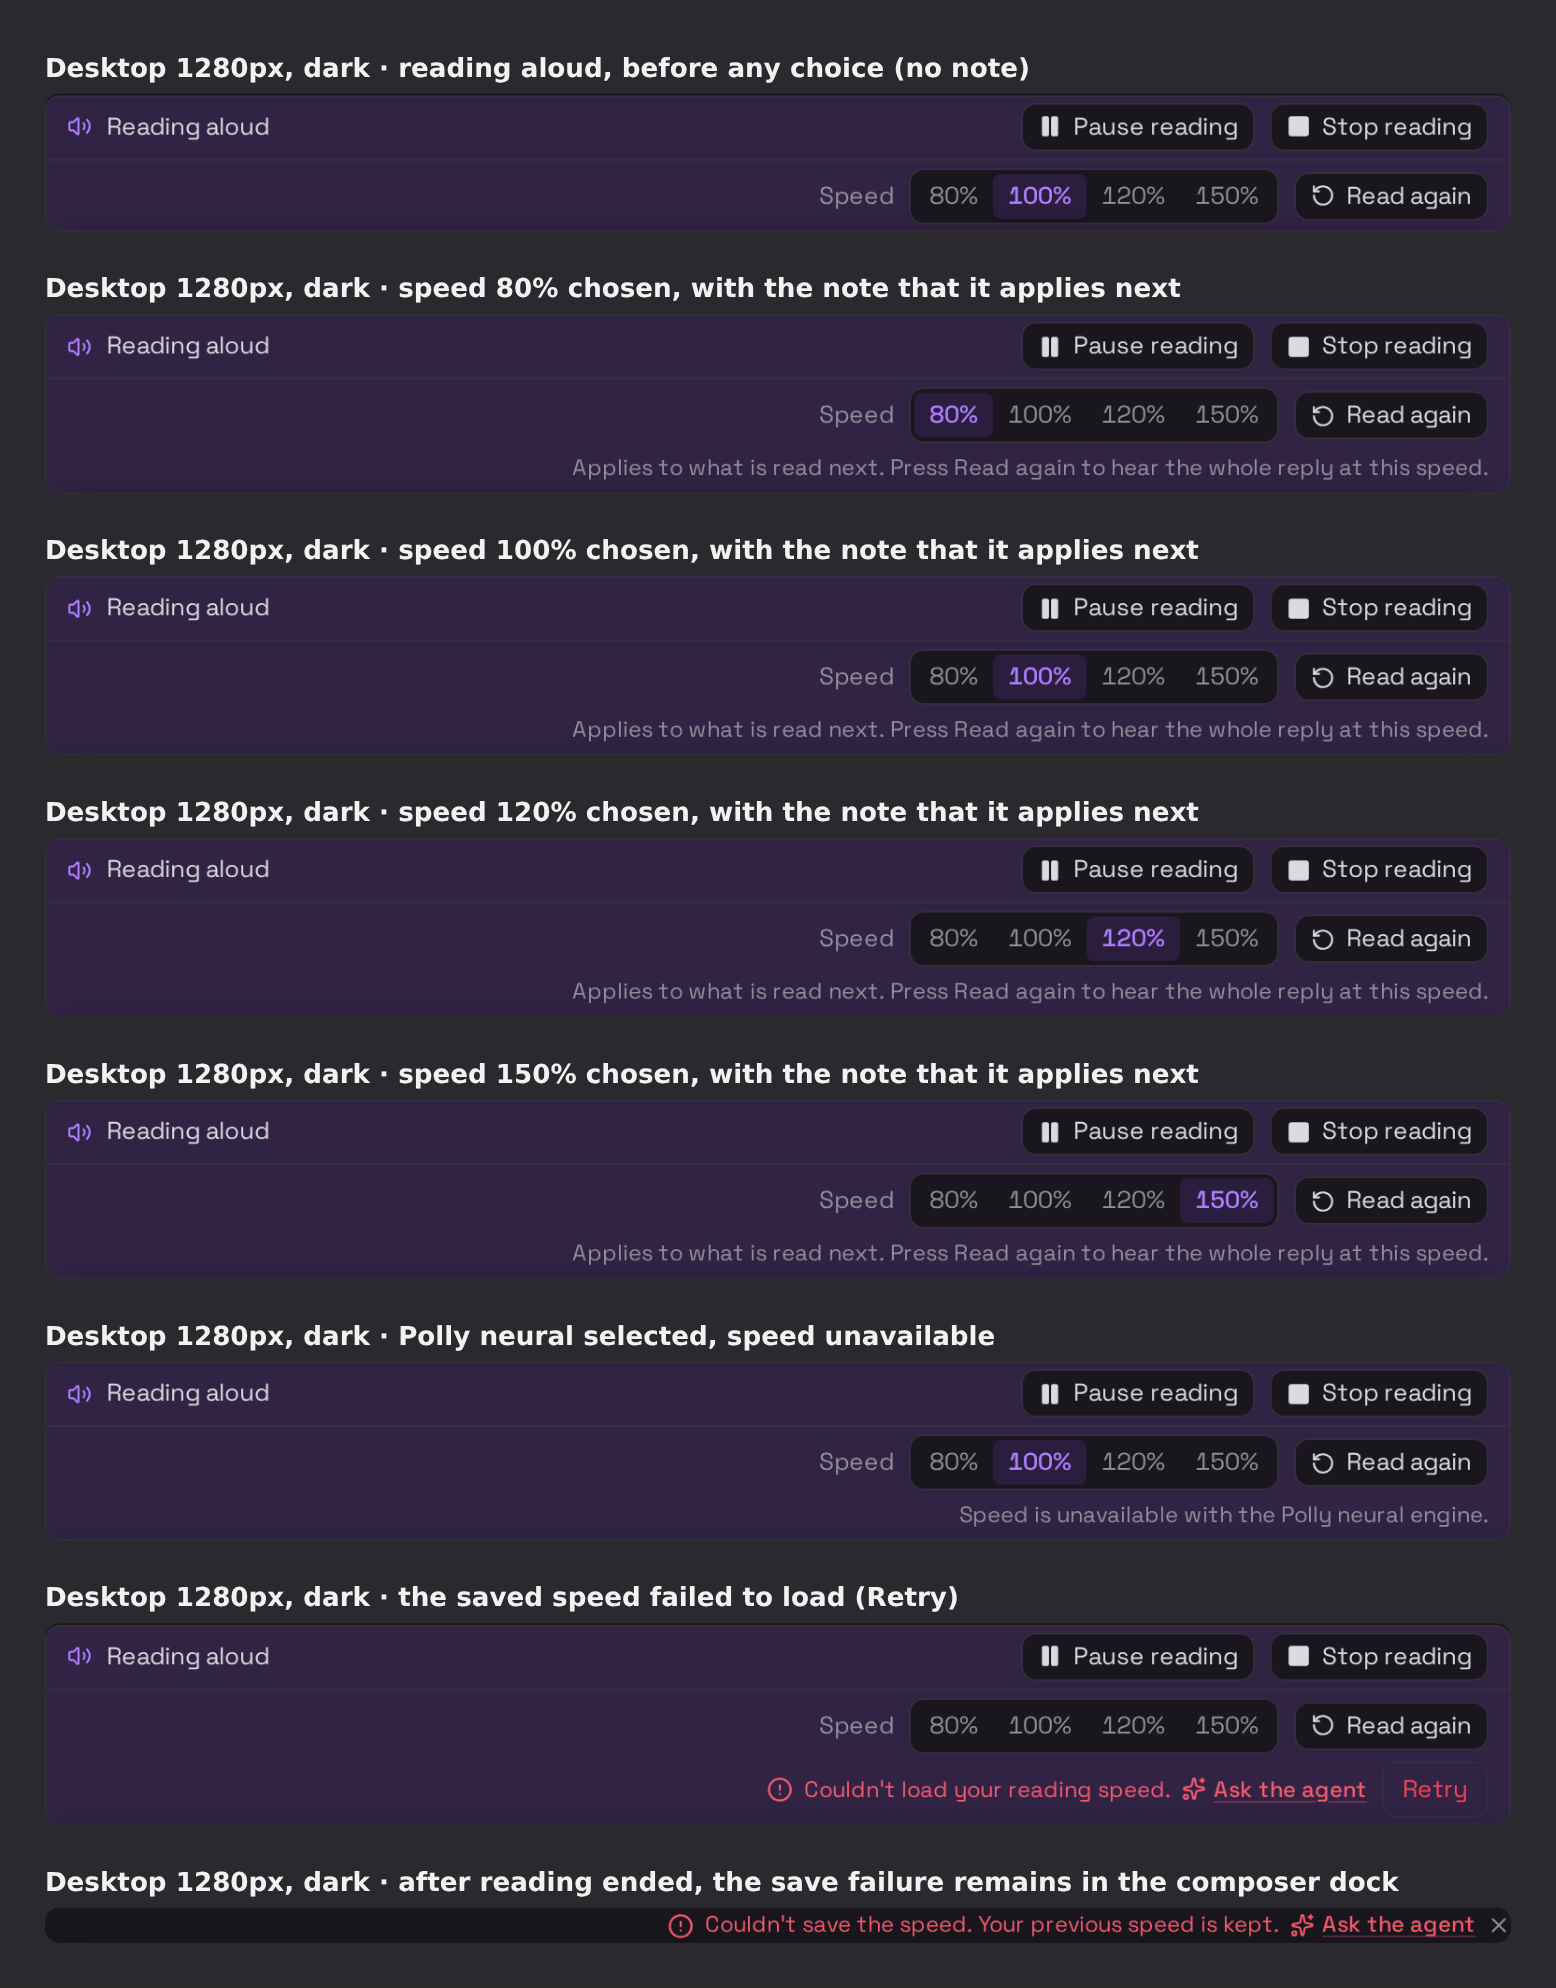
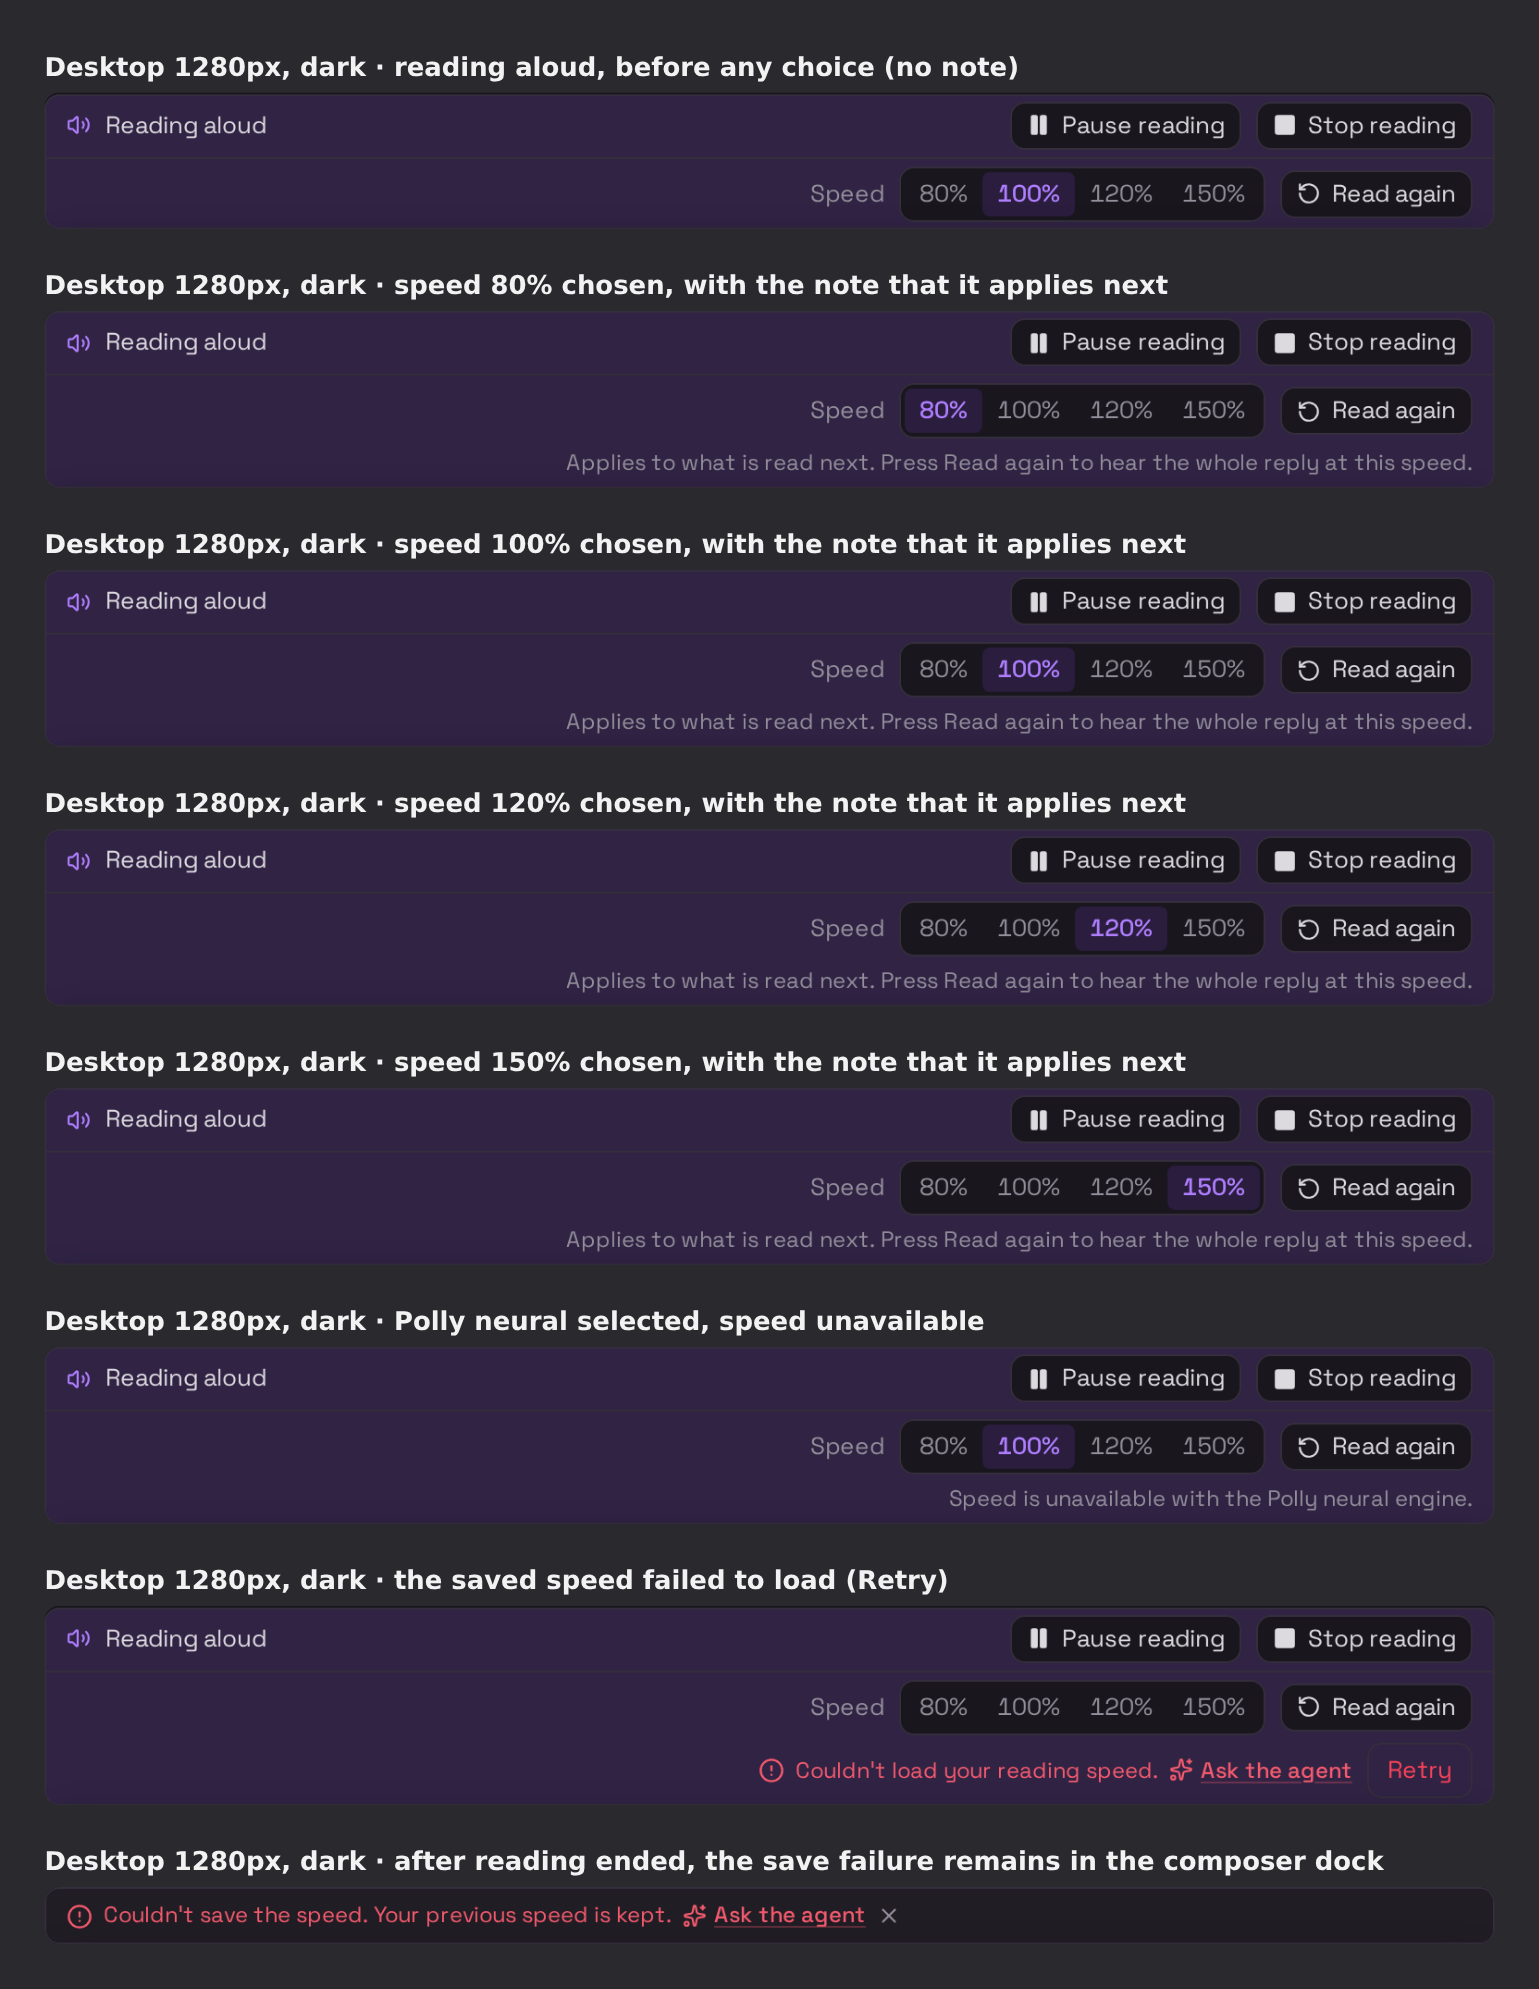
fix(voice): put the speed-save error on a glass pane in the dock
Part of #36825

diff --git a/website/src/test/VoicePlaybackBar.test.tsx b/website/src/test/VoicePlaybackBar.test.tsx
@@ -556,16 +556,26 @@ describe('VoicePlaybackBar', () => {
 
       act(() => { store.dispatch(setVoicePlaying(false)) })
       expect(screen.queryByTestId('voice-playback-bar')).toBeNull()
+      // No failure, no bar: the dock holds no empty glass pane or padding.
+      expect(document.querySelector('.liquid-glass')).toBeNull()
+      expect(document.querySelector('.pt-1\\.5')).toBeNull()
       await act(async () => { failSave?.(new Error('write failed')) })
 
       const notice = await screen.findByTestId('voice-speed-save-error')
       expect(notice).toHaveTextContent("Couldn't save the speed. Your previous speed is kept.")
+      // On the dock's thick glass, like the session-controls notice: bare text
+      // would let the transcript scrolling under the dock show through.
+      expect(notice.parentElement).toHaveClass('liquid-glass', 'glass-thick')
+      expect(notice.parentElement).not.toHaveClass('glass-danger')
+      expect(notice.parentElement?.parentElement).toHaveClass('pt-1.5')
       act(() => { store.dispatch(setVoicePlaying(true)) })
       await screen.findByRole('radiogroup', { name: 'Speed' })
       expect(screen.getAllByTestId('voice-speed-save-error')).toHaveLength(1)
 
       fireEvent.click(screen.getByRole('button', { name: 'Dismiss' }))
       await waitFor(() => expect(screen.queryByTestId('voice-speed-save-error')).toBeNull())
+      act(() => { store.dispatch(setVoicePlaying(false)) })
+      expect(document.querySelector('.liquid-glass')).toBeNull()
     })
 
     it('clears a previous save failure when another save starts', async () => {
@@ -577,6 +587,8 @@ describe('VoicePlaybackBar', () => {
       fireEvent.click(await loadedRadio('120%'))
       await waitFor(() => expect(api.updateVoiceConfig).toHaveBeenCalledTimes(2))
       expect(screen.queryByTestId('voice-speed-save-error')).toBeNull()
+      // Only the bar's own pane is left: the notice's pane went with it.
+      expect(document.querySelectorAll('.liquid-glass.glass-thick')).toHaveLength(1)
     })
 
     describe('while a save is pending', () => {

diff --git a/website/src/components/VoiceSpeedControl.tsx b/website/src/components/VoiceSpeedControl.tsx
@@ -5,6 +5,7 @@ import { api } from '../api/client'
 import { i18nT } from '../i18n/t'
 import { VOICE_SPEED_PRESETS, formatVoiceSpeed, voiceSpeedMultiplier } from '../lib/voiceSpeed'
 import ErrorNotice from './ErrorNotice'
+import { Glass } from './Glass'
 import { RadioChipGroup, radioChip } from './RadioChipGroup'
 import { Btn } from './ui'
 
@@ -71,19 +72,26 @@ export function VoiceSpeedProvider({ children }: { children: ReactNode }) {
   )
 }
 
-/** The speed-save failure stays in the composer dock after playback ends. */
+/** The speed-save failure stays in the composer dock after playback ends. It
+ *  sits on the dock's `thick` glass, like the session-controls notice: bare
+ *  text lets the transcript scrolling under the dock show through its words. */
 export function VoiceSpeedSaveNotice() {
   const { saveFailed, dismissSaveError } = useVoiceSpeedSave()
+  if (!saveFailed) return null
   return (
-    <ErrorNotice
-      variant="inline"
-      message={saveFailed ? i18nT('components.voicePlaybackBar.speedSaveFailed') : null}
-      askAgent
-      actionPlacement="below-on-phone"
-      onDismiss={dismissSaveError}
-      className="mt-1.5 justify-end"
-      testId="voice-speed-save-error"
-    />
+    <div className="pt-1.5">
+      <Glass variant="chip" thickness="thick" radius={8} className="flex px-3 py-1.5">
+        <ErrorNotice
+          variant="inline"
+          message={i18nT('components.voicePlaybackBar.speedSaveFailed')}
+          askAgent
+          actionPlacement="below-on-phone"
+          onDismiss={dismissSaveError}
+          className="justify-end"
+          testId="voice-speed-save-error"
+        />
+      </Glass>
+    </div>
   )
 }
 
